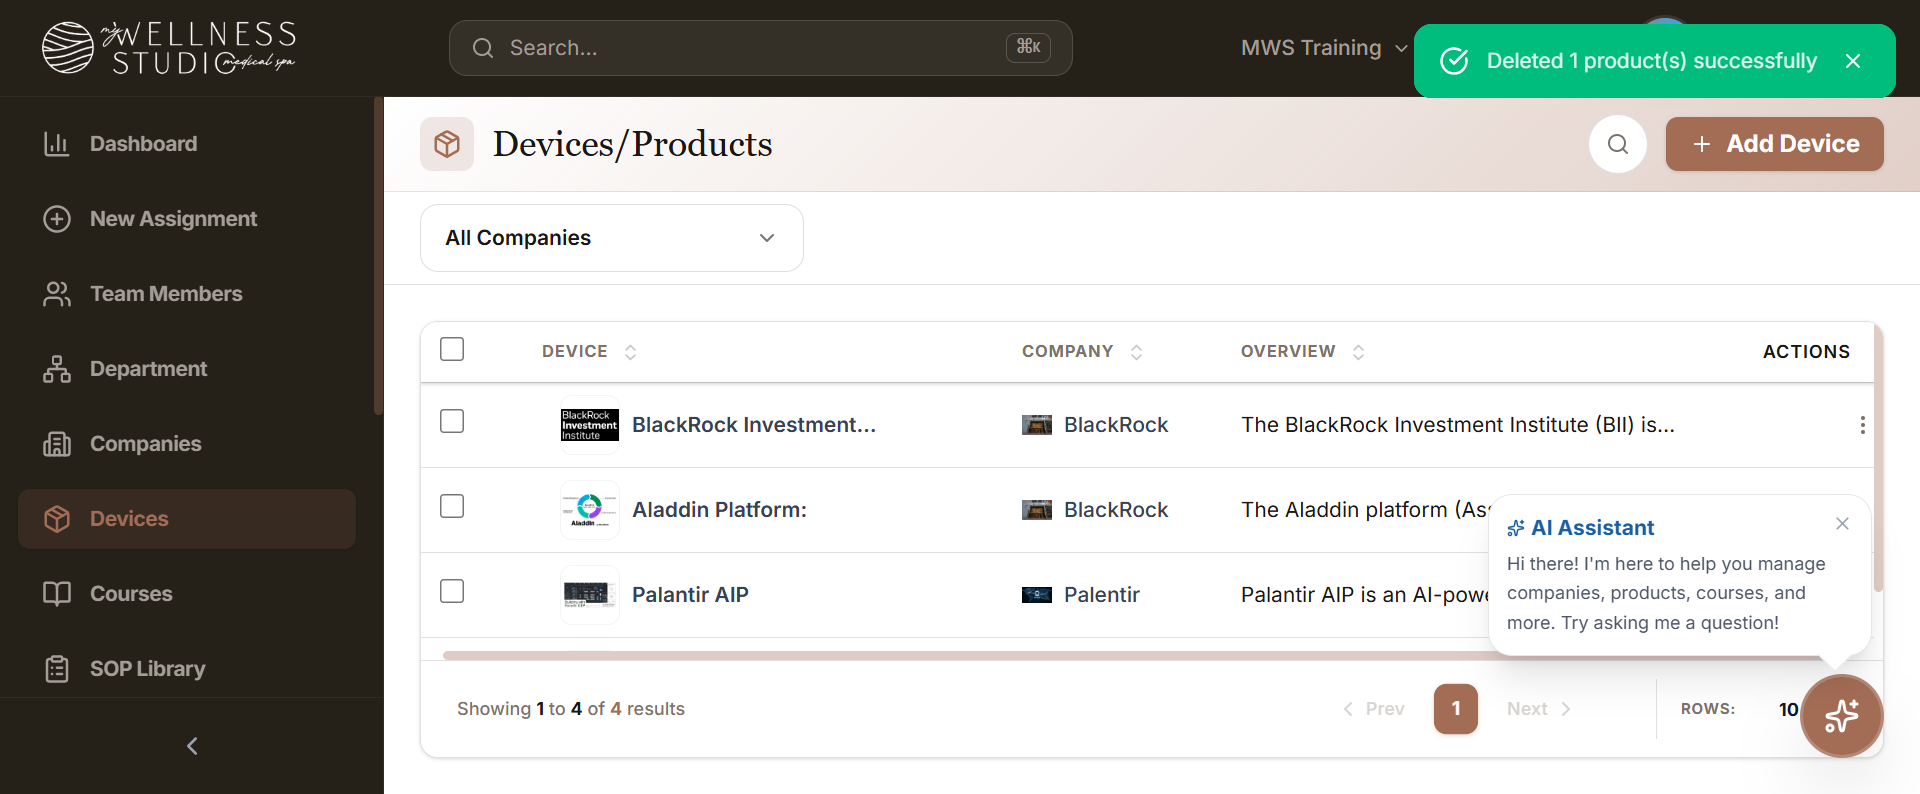
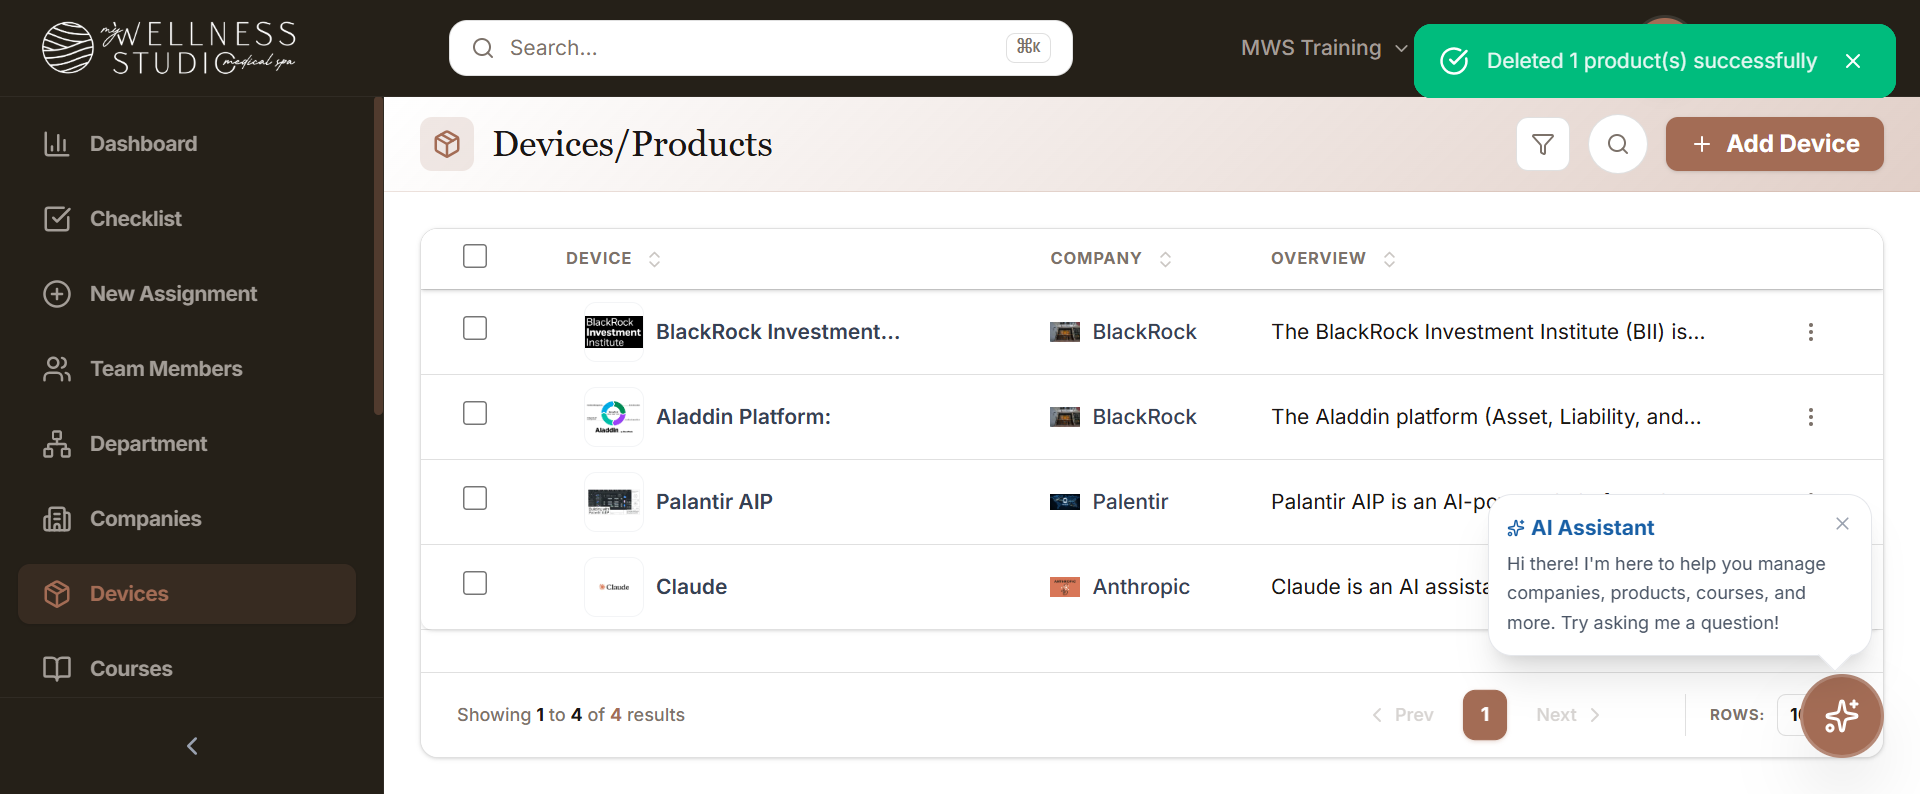
Implemented automation based on recent changes

diff --git a/src/test/java/Courses/Add_CourseModule4.java b/src/test/java/Courses/Add_CourseModule4.java
@@ -1,0 +1,78 @@
+package Courses;
+
+import java.time.Duration;
+
+import org.openqa.selenium.By;
+import org.openqa.selenium.chrome.ChromeDriver;
+import org.openqa.selenium.support.ui.ExpectedConditions;
+import org.openqa.selenium.support.ui.WebDriverWait;
+
+public class Add_CourseModule4 {
+
+	public static void main(String[] args) {
+		// TODO Auto-generated method stub
+		
+ChromeDriver driver = new ChromeDriver();
+        
+        // maximize the window
+        driver.manage().window().maximize();
+        
+        // open the website 
+        driver.get("https://mwstraining.com/");
+        
+        // enter mail
+        WebDriverWait wait = new WebDriverWait(driver, Duration.ofSeconds(10));
+
+        wait.until(ExpectedConditions.visibilityOfElementLocated(
+                By.xpath("//input[@placeholder='Enter Email']"))).sendKeys("ashishappnox1@gmail.com");
+        
+        // enter password
+        wait.until(ExpectedConditions.visibilityOfElementLocated(
+				By.xpath("//input[@placeholder='••••••••']"))).sendKeys("Ashish@567");
+		
+				// click on login button
+		wait.until(ExpectedConditions.elementToBeClickable(By.xpath("//*[@id=\"root\"]/div[1]/div/div/div[1]/div/div/form/div[2]/button"))).click();
+		
+		// click on Course section
+		wait.until(ExpectedConditions.elementToBeClickable(By.xpath("//button[normalize-space()='Courses']"))).click();
+				
+				// select the course from the list
+						wait.until(ExpectedConditions.elementToBeClickable(By.xpath("//*[@id=\"app-scroll-container\"]/div/div/main/div/div/div/div[1]/div/div/div/table/tbody/tr[1]"))).click();
+						
+						
+						// click on add lession button
+						wait.until(ExpectedConditions.elementToBeClickable(By.xpath("//button[normalize-space()='Add Lesson']"))).click();
+						
+						// enter the lession title
+						wait.until(ExpectedConditions.visibilityOfElementLocated(
+						                By.xpath("//input[@placeholder='e.g. Introduction to Safety']"))).sendKeys("AI in Healthcare");
+						
+						// enter the lession description
+						wait.until(ExpectedConditions.visibilityOfElementLocated(
+								By.xpath("//*[@id=\"app-scroll-container\"]/div/div/main/div/div/div[2]/div[1]/div[2]/div[2]/div/div[2]/div[1]"))).sendKeys("This lesson will cover the basics of AI in Healthcare.");
+						
+						// click on sop
+						wait.until(ExpectedConditions.elementToBeClickable(By.xpath("//button[normalize-space()='SOP']"))).click();
+						
+						// select the sop from the list
+						wait.until(ExpectedConditions.elementToBeClickable(By.xpath("/html/body/div[2]/div[2]/div[2]/div/div/button[1]"))).click();
+						
+						// click on the text button
+						wait.until(ExpectedConditions.elementToBeClickable(By.xpath("//button[normalize-space()='Text']"))).click();
+						
+						// enter the text in the text editor
+						wait.until(ExpectedConditions.visibilityOfElementLocated(
+								By.xpath("//*[@id=\"app-scroll-container\"]/div/div/main/div/div/div[2]/div[2]/div[2]/div[2]/div/div/div[2]/div[1]"))).sendKeys("This is the content of the lesson.");
+						
+						// click on sop
+						wait.until(ExpectedConditions.elementToBeClickable(By.xpath("//button[normalize-space()='SOP']"))).click();
+						
+						// select the sop from the list
+						wait.until(ExpectedConditions.elementToBeClickable(By.xpath("/html/body/div[2]/div[2]/div[2]/div/div/button[2]"))).click();
+						
+						// click on save button
+						wait.until(ExpectedConditions.elementToBeClickable(By.xpath("//button[normalize-space()='Save Lesson']"))).click();
+
+	}
+
+}

diff --git a/src/test/java/SOP_Library/Add_Categories2.java b/src/test/java/SOP_Library/Add_Categories2.java
@@ -1,9 +1,58 @@
 package SOP_Library;
 
+import java.time.Duration;
+
+import org.openqa.selenium.By;
+import org.openqa.selenium.chrome.ChromeDriver;
+import org.openqa.selenium.support.ui.ExpectedConditions;
+import org.openqa.selenium.support.ui.WebDriverWait;
+
 public class Add_Categories2 {
 
 	public static void main(String[] args) {
 		// TODO Auto-generated method stub
+		
+ChromeDriver driver = new ChromeDriver();
+        
+        // maximize the window
+        driver.manage().window().maximize();
+        
+        // open the website 
+        driver.get("https://mwstraining.com/");
+        
+        // enter mail
+        WebDriverWait wait = new WebDriverWait(driver, Duration.ofSeconds(40));
+
+        wait.until(ExpectedConditions.visibilityOfElementLocated(
+                By.xpath("//input[@placeholder='Enter Email']"))).sendKeys("ashishappnox1@gmail.com");
+        
+        // enter password
+        wait.until(ExpectedConditions.visibilityOfElementLocated(
+				By.xpath("//input[@placeholder='••••••••']"))).sendKeys("Ashish@567");
+		
+				// click on login button
+		wait.until(ExpectedConditions.elementToBeClickable(By.xpath("//*[@id=\"root\"]/div[1]/div/div/div[1]/div/div/form/div[2]/button"))).click();
+		
+		// click on SOP Library section
+		wait.until(ExpectedConditions.elementToBeClickable(By.xpath("//button[normalize-space()='SOP Library']"))).click();
+		
+	    // click on category section
+		wait.until(ExpectedConditions.elementToBeClickable(By.xpath("//button[normalize-space()='Categories']"))).click();
+		
+		// click on add category button
+		wait.until(ExpectedConditions.elementToBeClickable(By.xpath("//button[normalize-space()='Add Category']"))).click();
+		
+		// enter category name
+		wait.until(ExpectedConditions.visibilityOfElementLocated(
+				By.xpath("//input[@placeholder='e.g. Injectables']"))).sendKeys("Testing category");
+		
+		// write description
+		wait.until(ExpectedConditions.visibilityOfElementLocated(
+				By.xpath("//textarea[@placeholder='What this category covers (optional)']"))).sendKeys("This category is for testing purpose");
+		
+		// click on create button
+		wait.until(ExpectedConditions.elementToBeClickable(By.xpath("//button[normalize-space()='Create']"))).click();
+		
 
 	}
 

diff --git a/src/test/java/Device/Create_Product.java b/src/test/java/Device/Create_Product.java
@@ -37,7 +37,7 @@ ChromeDriver driver = new ChromeDriver();
 		wait.until(ExpectedConditions.elementToBeClickable(By.xpath("//button[normalize-space()='Devices']"))).click();
 		
 		// click on create product button
-		wait.until(ExpectedConditions.elementToBeClickable(By.xpath("//*[@id=\"app-scroll-container\"]/div/div/header/div[2]/button"))).click();
+		wait.until(ExpectedConditions.elementToBeClickable(By.xpath("//button[normalize-space()='Add Device']"))).click();
 		
 		// enter product name
 		wait.until(ExpectedConditions.visibilityOfElementLocated(
@@ -47,7 +47,7 @@ ChromeDriver driver = new ChromeDriver();
 		wait.until(ExpectedConditions.elementToBeClickable(By.xpath("/html/body/div[2]/div[2]/div[2]/form/div[1]/div[2]/div[2]/div/div/button"))).click();
 		
 		//select company from dropdown
-		wait.until(ExpectedConditions.elementToBeClickable(By.xpath("/html/body/div[2]/div[2]/div[2]/form/div[1]/div[2]/div[2]/div/div/div/div[2]/div/button[1]"))).click();
+		wait.until(ExpectedConditions.elementToBeClickable(By.xpath("/html/body/div[3]/div[2]/div/button[1]"))).click();
 		
 		// enter the product description
 		wait.until(ExpectedConditions.visibilityOfElementLocated(

diff --git a/src/test/java/SOP_Library/Add_Categories1.java b/src/test/java/SOP_Library/Add_Categories1.java
@@ -35,6 +35,23 @@ ChromeDriver driver = new ChromeDriver();
 		
 		// click on SOP Library section
 		wait.until(ExpectedConditions.elementToBeClickable(By.xpath("//button[normalize-space()='SOP Library']"))).click();
+		
+	    // click on category section
+		wait.until(ExpectedConditions.elementToBeClickable(By.xpath("//button[normalize-space()='Categories']"))).click();
+		
+		// click on add category button
+		wait.until(ExpectedConditions.elementToBeClickable(By.xpath("//button[normalize-space()='Add Category']"))).click();
+		
+		// enter category name
+		wait.until(ExpectedConditions.visibilityOfElementLocated(
+				By.xpath("//input[@placeholder='e.g. Injectables']"))).sendKeys("Learning category");
+		
+		// write description
+		wait.until(ExpectedConditions.visibilityOfElementLocated(
+				By.xpath("//textarea[@placeholder='What this category covers (optional)']"))).sendKeys("This category is for learning purpose");
+		
+		// click on create button
+		wait.until(ExpectedConditions.elementToBeClickable(By.xpath("//button[normalize-space()='Create']"))).click();
 				
 				
 

diff --git a/src/test/java/Device/View_Product.java b/src/test/java/Device/View_Product.java
@@ -42,8 +42,11 @@ ChromeDriver driver = new ChromeDriver();
 		// click on Product section
 		wait.until(ExpectedConditions.elementToBeClickable(By.xpath("//*[@id=\"root\"]/div[1]/div[2]/div[1]/aside/nav/div[7]/button"))).click();
 		
+		// click on the action button 
+		wait.until(ExpectedConditions.elementToBeClickable(By.xpath("//*[@id=\"app-scroll-container\"]/div/div/main/div/div/div/div[1]/div/div/div/table/tbody/tr[1]/td[5]/div/div/button"))).click();
+		
 		//click on view button
-		wait.until(ExpectedConditions.elementToBeClickable(By.xpath("//*[@id=\"admin-scroll-container\"]/div/div/main/div/div/div/div[1]/div/div/div/table/tbody/tr[1]/td[5]/div/button[1]"))).click();
+		wait.until(ExpectedConditions.elementToBeClickable(By.xpath("//button[normalize-space()='View Detail']"))).click();
 		
 		// Create screenshots folder if it doesn't exist
         File screenshotsFolder = new File("screenshots");

diff --git a/src/test/java/Device/Search_Product.java b/src/test/java/Device/Search_Product.java
@@ -44,11 +44,11 @@ ChromeDriver driver = new ChromeDriver();
 		
 		// click on search field
 		wait.until(ExpectedConditions.visibilityOfElementLocated(
-				By.xpath("//*[@id=\"admin-scroll-container\"]/div/div/header/div[2]/div/div"))).click();
+				By.xpath("//*[@id=\"app-scroll-container\"]/div/div/header/div[2]/div/div"))).click();
 		
 		// enter product name in search field
 		wait.until(ExpectedConditions.visibilityOfElementLocated(
-				By.xpath("//*[@id=\"admin-scroll-container\"]/div/div/header/div[2]/div/input"))).sendKeys("Aladdin");
+				By.xpath("//input[@placeholder='Search products...']"))).sendKeys("Aladdin");
 		Thread.sleep(3000); // Wait for 2 seconds to allow search results to load
 		// Create screenshots folder if it doesn't exist
         File screenshotsFolder = new File("screenshots");

diff --git a/src/test/java/SOP_Library/Delete_Categories.java b/src/test/java/SOP_Library/Delete_Categories.java
@@ -35,6 +35,15 @@ ChromeDriver driver = new ChromeDriver();
 		
 		// click on SOP Library section
 		wait.until(ExpectedConditions.elementToBeClickable(By.xpath("//button[normalize-space()='SOP Library']"))).click();
+		
+		// click on Categories section
+		wait.until(ExpectedConditions.elementToBeClickable(By.xpath("//button[normalize-space()='Categories']"))).click();
+		
+		//click on action button
+		wait.until(ExpectedConditions.elementToBeClickable(By.xpath("//*[@id=\"app-scroll-container\"]/div/div/main/div/div/div[1]/div/div/div/table/tbody/tr[1]/td[3]/div/div/button"))).click();
+		
+		//click on delete button
+		wait.until(ExpectedConditions.elementToBeClickable(By.xpath("/html/body/div[2]/button[2]"))).click();
 
 	}
 

diff --git a/src/test/java/Dashboard/AwaitingApproval.java b/src/test/java/Dashboard/AwaitingApproval.java
@@ -34,7 +34,7 @@ ChromeDriver driver = new ChromeDriver();
 		wait.until(ExpectedConditions.elementToBeClickable(By.xpath("//*[@id=\"root\"]/div[1]/div/div/div[1]/div/div/form/div[2]/button"))).click();
 		
 		// click on Awaiting Approval
-		wait.until(ExpectedConditions.elementToBeClickable(By.xpath("//*[@id=\"app-scroll-container\"]/div/div/main/div/div[1]/div[10]/div[2]"))).click();
+		wait.until(ExpectedConditions.elementToBeClickable(By.xpath("//*[@id=\"app-scroll-container\"]/div/div/main/div/div[1]/div[7]/div[2]"))).click();
 
 	}
 

diff --git a/src/test/java/Dashboard/TotalCourse.java b/src/test/java/Dashboard/TotalCourse.java
@@ -34,7 +34,7 @@ ChromeDriver driver = new ChromeDriver();
 		wait.until(ExpectedConditions.elementToBeClickable(By.xpath("//*[@id=\"root\"]/div[1]/div/div/div[1]/div/div/form/div[2]/button"))).click();
 		
 		// click on course
-		wait.until(ExpectedConditions.elementToBeClickable(By.xpath("//*[@id=\"app-scroll-container\"]/div/div/main/div/div[1]/div[3]/div[2]"))).click();
+		wait.until(ExpectedConditions.elementToBeClickable(By.xpath("//*[@id=\"app-scroll-container\"]/div/div/main/div/div[1]/div[2]/div[2]"))).click();
 
 	}
 
